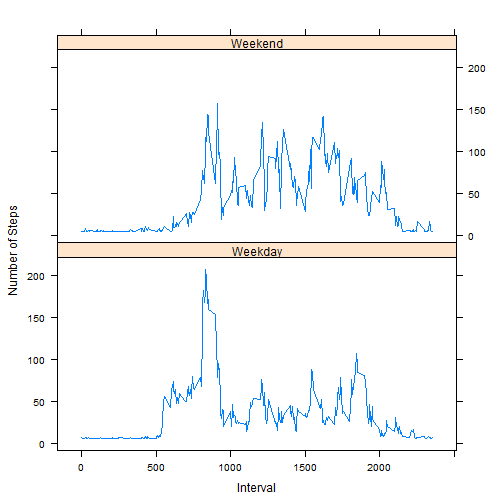
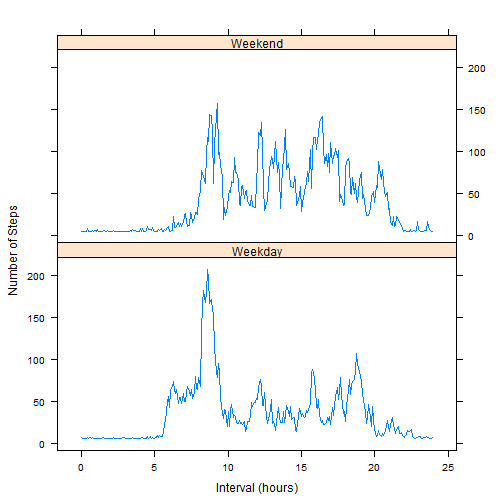
Peer Assessment1 Friday Submit 2

diff --git a/PA1_template.html b/PA1_template.html
@@ -309,21 +309,22 @@ tapply(rmna_activity$steps,rmna_activity$date, sum)
 
 <h2>What is the average daily activity pattern?</h2>
 
-<p>Using aggregate() function to get average steps taken across all days and make a time series plot.</p>
+<p>Using aggregate() function to get average steps taken across all days and make a time series plot. Convert the interval into hours to get a proportionate scale.</p>
 
 <pre><code class="r">avstep &lt;- aggregate(steps ~ interval, mean, data=ractivity, rm.na =TRUE)
-plot(avstep[,1],avstep[,2], type=&quot;l&quot;, xlab = &quot;Interval&quot;, ylab=&quot;Average Steps&quot;, main =&quot;Average Steps Taken Across All Days&quot;, col=3)
+avstep$hr &lt;- (avstep$interval %/% 100) + (avstep$interval %% 100)/60
+plot(avstep[,3],avstep[,2], type=&quot;l&quot;, xlab = &quot;Interval (hours)&quot;, ylab=&quot;Average Steps&quot;, main =&quot;Average Steps Taken Across All Days&quot;, col=3)
 </code></pre>
 
[2 lines of base64/hex data omitted]
 
 <p>To find the 5-minute interval, on average across all the days in the dataset,which contains the maximum number of steps,</p>
 
 <pre><code class="r">avstep[round(avstep[,2],2) == round(max(avstep[,2]),2),]
 </code></pre>
 
-<pre><code>##     interval    steps
-## 104      835 206.1698
+<pre><code>##     interval    steps       hr
+## 104      835 206.1698 8.583333
 </code></pre>
 
 <h2>Imputing missing values</h2>
@@ -347,8 +348,9 @@ nactivity[is.na(nactivity[,1]),1] &lt;- mean(avstep[,2])
 <pre><code class="r"> hist(tapply(nactivity$steps,nactivity$date, sum),main =&quot;Histogram of Total number of steps taken&quot;, xlab=&quot;Number of Steps&quot;,col=c(3:7))
 </code></pre>
 
[1 lines of base64/hex data omitted]
-Apply mean() and median() functions on the total steps per day on new data set</p>
[1 lines of base64/hex data omitted]
+
+<p>Apply mean() and median() functions on the total steps per day on new data set</p>
 
 <pre><code class="r">mean(tapply(nactivity$steps,nactivity$date, sum))
 </code></pre>
@@ -366,22 +368,25 @@ Apply mean() and median() functions on the total steps per day on new data set</
 
 <h2>Are there differences in activity patterns between weekdays and weekends?</h2>
 
-<p>Add a new column to the data set nactivity and assign &ldquo;Weekday&rdquo; and &ldquo;Weekend&rdquo; accordingly. Convert that column as factor. Generate average steps taken across all days using aggregate function and assign to a variabl called navstep.  </p>
+<p>Add a new column to the data set nactivity and assign &ldquo;Weekday&rdquo; and &ldquo;Weekend&rdquo; accordingly. Convert that column as factor. Generate average steps taken across all days using aggregate function and assign to a variabl called navstep. Convert interval into hours and add as a new column to navstep.  </p>
 
 <pre><code class="r">nactivity$Wday &lt;- rep(NA, nrow(nactivity))
 nactivity[weekdays(as.Date(nactivity[,2])) %in% c(&quot;Saturday&quot;,&quot;Sunday&quot;),4] &lt;- &quot;Weekend&quot;
 nactivity[!weekdays(as.Date(nactivity[,2])) %in% c(&quot;Saturday&quot;,&quot;Sunday&quot;),4] &lt;- &quot;Weekday&quot;
 nactivity$Wday &lt;- as.factor(nactivity$Wday)
 navstep &lt;- aggregate(steps ~ interval+Wday, mean, data=nactivity, rm.na =TRUE)
+navstep$hr &lt;- (navstep$interval %/% 100) + (navstep$interval %% 100)/60
 </code></pre>
 
 <p>Then make a panel plot using Lattice plotting system.</p>
 
 <pre><code class="r">library(lattice)
-xyplot(steps ~ interval | Wday, data = navstep, layout = c(1,2), type = &quot;l&quot;, xlab = &quot;Interval&quot;, ylab = &quot;Number of Steps&quot; )
+xyplot(steps ~ hr | Wday, data = navstep, layout = c(1,2), type = &quot;l&quot;, xlab = &quot;Interval (hours)&quot;,ylab = &quot;Number of Steps&quot;)
 </code></pre>
 
[2 lines of base64/hex data omitted]
+
+<p>We can see from the graph that during the weekend the activity is spread out the whole day.  During the weekday, the activity level peaks just before the office hour &ndash;most probably caused by the commute to work.</p>
 
 </body>
 

diff --git a/PA1_template.md b/PA1_template.md
@@ -126,11 +126,13 @@ median(tapply(rmna_activity$steps,rmna_activity$date, sum),na.rm = TRUE)
 
 
 ## What is the average daily activity pattern?
-Using aggregate() function to get average steps taken across all days and make a time series plot.
+Using aggregate() function to get average steps taken across all days and make a time series plot. Convert the interval into hours to get a proportionate scale.
+
 
 ```r
 avstep <- aggregate(steps ~ interval, mean, data=ractivity, rm.na =TRUE)
-plot(avstep[,1],avstep[,2], type="l", xlab = "Interval", ylab="Average Steps", main ="Average Steps Taken Across All Days", col=3)
+avstep$hr <- (avstep$interval %/% 100) + (avstep$interval %% 100)/60
+plot(avstep[,3],avstep[,2], type="l", xlab = "Interval (hours)", ylab="Average Steps", main ="Average Steps Taken Across All Days", col=3)
 ```
 
 ![plot of chunk unnamed-chunk-6](figure/unnamed-chunk-6-1.png) 
@@ -142,8 +144,8 @@ avstep[round(avstep[,2],2) == round(max(avstep[,2]),2),]
 ```
 
 ```
-##     interval    steps
-## 104      835 206.1698
+##     interval    steps       hr
+## 104      835 206.1698 8.583333
 ```
 ## Imputing missing values
 
@@ -170,6 +172,7 @@ Plot a histogram with newly created data set
 ```
 
 ![plot of chunk unnamed-chunk-10](figure/unnamed-chunk-10-1.png) 
+
 Apply mean() and median() functions on the total steps per day on new data set
 
 ```r
@@ -192,7 +195,7 @@ Since the average is assigned to all the missing value, the new mean is the same
 
 ## Are there differences in activity patterns between weekdays and weekends?
 
-Add a new column to the data set nactivity and assign "Weekday" and "Weekend" accordingly. Convert that column as factor. Generate average steps taken across all days using aggregate function and assign to a variabl called navstep.  
+Add a new column to the data set nactivity and assign "Weekday" and "Weekend" accordingly. Convert that column as factor. Generate average steps taken across all days using aggregate function and assign to a variabl called navstep. Convert interval into hours and add as a new column to navstep.  
 
 
 ```r
@@ -201,15 +204,16 @@ nactivity[weekdays(as.Date(nactivity[,2])) %in% c("Saturday","Sunday"),4] <- "We
 nactivity[!weekdays(as.Date(nactivity[,2])) %in% c("Saturday","Sunday"),4] <- "Weekday"
 nactivity$Wday <- as.factor(nactivity$Wday)
 navstep <- aggregate(steps ~ interval+Wday, mean, data=nactivity, rm.na =TRUE)
+navstep$hr <- (navstep$interval %/% 100) + (navstep$interval %% 100)/60
 ```
 
 Then make a panel plot using Lattice plotting system.
 
 ```r
 library(lattice)
-xyplot(steps ~ interval | Wday, data = navstep, layout = c(1,2), type = "l", xlab = "Interval", ylab = "Number of Steps" )
+xyplot(steps ~ hr | Wday, data = navstep, layout = c(1,2), type = "l", xlab = "Interval (hours)",ylab = "Number of Steps")
 ```
 
 ![plot of chunk unnamed-chunk-13](figure/unnamed-chunk-13-1.png) 
 
-
+We can see from the graph that during the weekend the activity is spread out the whole day.  During the weekday, the activity level peaks just before the office hour --most probably caused by the commute to work.
